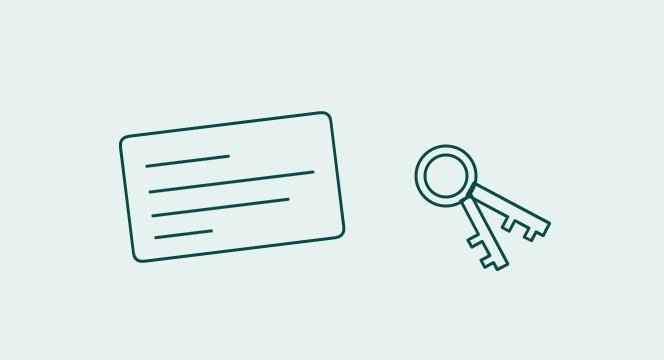
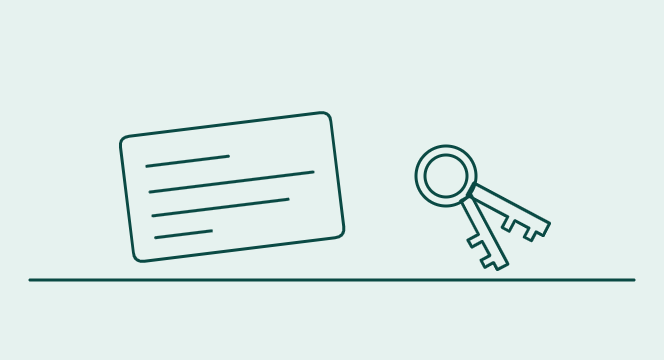
fix(landing): the cutlery pointed backwards, the card had no table, the scale read "--"
Three defects from review of these drawings. All three were invisible to every
gate; two were caught by screenshotting the rendered block at 375px, which is
the only check that sees them.

cleared-plate: rotate(38 248 180) is CLOCKWISE, and the handles already start
below the plate's centre, so it swung them to about 7:30 — the mirror of the
finished-eating signal, which is not a signal at all. The file's own comment
said "four o'clock: the finished-eating position, which is the whole point of
the drawing", and the drawing did the opposite. rotate(-38 …) now puts tips at
roughly 10-11 and handles at 4-5.

appointment-card: both table grain lines were removed because at y=104 and
y=286 they sat on the mobile crop's edges and read as framing rules. That was
right about the lines and wrong about the ground — with neither, the mobile
crop showed the card and keys hanging in empty tint, the same defect caught
twice during this commit on the laptop and the scale and missed here. The alt
text says the card lies "askew on a table", so a screen-reader user was told
about a surface no sighted reader could see. One line at y=280 restores it: the
same counter line kitchen-scale.html already uses, 13px clear of the crop edge
and 18px below the card's lowest rotated corner. One reads as a table edge
where two read as a frame.

kitchen-scale: two strokes inside the display bezel rendered as "--", a glyph.
BRIEF.md forbids it ("Legible text includes digits, so the kitchen scale's
[…]

Changed region(s): [[0.0301, 0.7639, 0.9639, 0.7944]]

diff --git a/videos/familiar-line-art/compositions/appointment-card.html b/videos/familiar-line-art/compositions/appointment-card.html
@@ -40,8 +40,21 @@
         <!-- ⚠ Two full-width grain lines stood here and were removed. At
              y=104 and y=286 they landed almost exactly on the mobile crop's
              edges, so they read as framing rules drawn around the picture
-             rather than as a table. The card and the keys carry the frame on
-             their own. -->
+             rather than as a table.
+
+             ⛔ REMOVING BOTH WAS AN OVERCORRECTION and it shipped. With no
+             ground at all, the mobile crop (y 67–293) showed the card and the
+             keys hanging in empty tint — the same defect caught twice during
+             this commit on the laptop and the scale, missed here. The alt
+             text says the card lies "askew on a table"; a screen-reader user
+             was told about a surface no sighted reader could see.
+
+             ONE line, not two: two read as a frame, one reads as the table's
+             front edge. y=280 is the counter line kitchen-scale.html already
+             uses, 13px clear of the crop edge and 18px below the card's
+             lowest rotated corner (y≈262). Keep them in step — if one moves,
+             move both. -->
+        <path class="ink" d="M30,280 L634,280" />
 
         <!-- the appointment card, lying slightly askew -->
         <g transform="rotate(-7 232 186)">

diff --git a/videos/familiar-line-art/compositions/kitchen-scale.html b/videos/familiar-line-art/compositions/kitchen-scale.html
@@ -61,10 +61,14 @@
                              L112,253 Q112,240 126,240 Z" />
         <path class="ink" d="M148,240 L516,240" />
 
-        <!-- display panel, blank but for the null reading -->
+        <!-- ⛔ DISPLAY PANEL, EMPTY. Two strokes stood inside it and rendered
+             as "--" in a bezel — a glyph, which BRIEF.md forbids ("Legible
+             text includes digits, so the kitchen scale's display stays
+             blank") and which contradicted the card's alt text ("its display
+             reads nothing"). Three sources, two of them wrong. The bezel
+             alone says "this thing has a display"; nothing in it says what it
+             shows. Do not put a reading back. -->
         <path class="ink" d="M258,248 L406,248 L406,268 L258,268 Z" />
-        <path class="ink" d="M300,258 L326,258" />
-        <path class="ink" d="M338,258 L364,258" />
 
         <!-- The bowl. ⚠ Its rim is an ELLIPSE, not the straight line the first
              pass drew — a straight rim flattens the bowl into a pie and the

diff --git a/videos/familiar-line-art/compositions/cleared-plate.html b/videos/familiar-line-art/compositions/cleared-plate.html
@@ -46,7 +46,11 @@
 
         <!-- knife and fork laid parallel at four o'clock: the finished-eating
              position, which is the whole point of the drawing -->
-        <g transform="rotate(38 248 180)">
+        <!-- ⛔ NEGATIVE. SVG rotate() is CLOCKWISE, and the handles already
+             start below the plate's centre, so +38 swings them to about 7:30 —
+             the mirror of the finished signal, which is not a signal at all.
+             This shipped as rotate(38 …) and read backwards. -->
+        <g transform="rotate(-38 248 180)">
           <g transform="translate(224 180)">
             <!-- fork -->
             <path class="ink" d="M-11,-64 A11,11 0 0 1 11,-64 L11,-48
